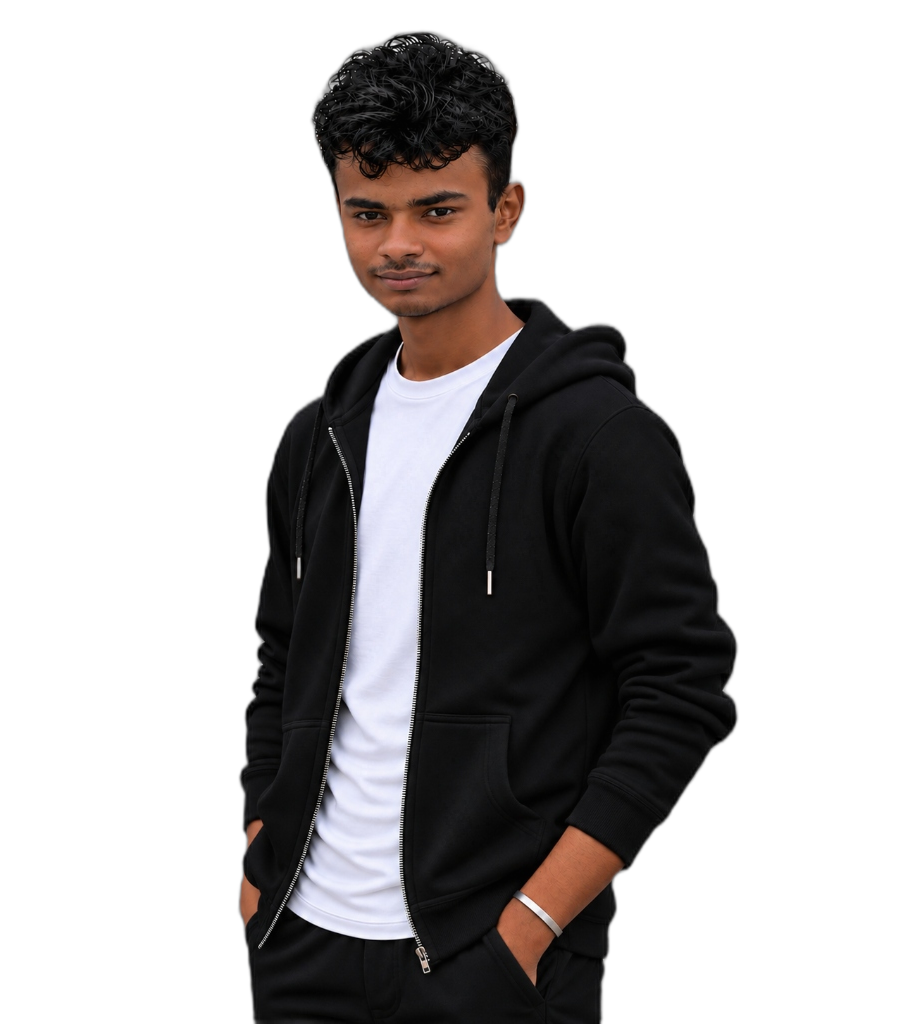
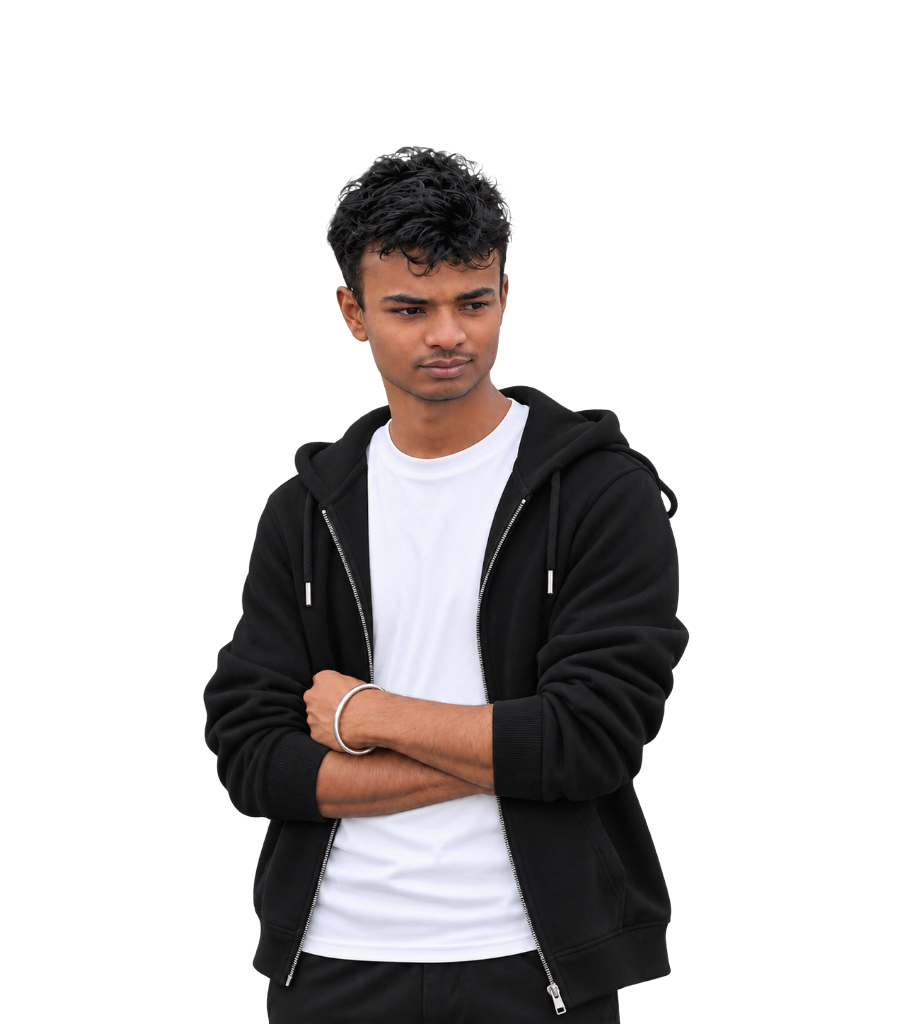
Update About section portrait with arms-crossed pose and reduce backdrop halo size

Changed region(s): [[0.2171, 0.0312, 0.8372, 1.0], [0.5891, 0.6875, 0.6202, 0.7188], [0.4031, 0.9688, 0.4341, 1.0]]

diff --git a/index.html b/index.html
@@ -541,28 +541,28 @@
             <div id="about-center-col" class="lg:col-span-4 flex items-end justify-center self-end pb-0 relative min-h-[500px] lg:min-h-[580px] xl:min-h-[660px] h-full select-none z-10">
               <div id="about-center-stage" class="relative w-full max-w-[440px] lg:max-w-[520px] xl:max-w-[580px] 2xl:max-w-[640px] mx-auto flex items-end justify-center pb-0">
                 
-                <!-- Neon Lime Green Circle & Radiating Sketch Lines (Enlarged Backdrop Elements, Strictly Behind All Text & Content) -->
-                <div id="about-portrait-backdrop" class="absolute inset-0 flex items-center justify-center pointer-events-none -z-1 will-change-transform scale-[2.3] lg:scale-[2.65] xl:scale-[2.9] -translate-x-[2%] -translate-y-[2%]">
-                  <svg viewBox="0 0 600 600" fill="none" class="w-[160%] h-[160%] max-w-none overflow-visible">
-                    <circle cx="300" cy="300" r="255" stroke="#161c14" stroke-width="4.5" fill="none" />
-                    <circle cx="300" cy="300" r="255" stroke="#81FF28" stroke-width="2.2" stroke-dasharray="14 10" stroke-linecap="round" fill="none" opacity="0.6" />
-                    <circle cx="300" cy="300" r="195" fill="#81FF28" />
+                <!-- Neon Lime Green Circle & Radiating Sketch Lines (Reduced to Smaller, Refined Halo Size Behind Portrait) -->
+                <div id="about-portrait-backdrop" class="absolute inset-0 flex items-center justify-center pointer-events-none -z-1 will-change-transform -translate-x-[2%] -translate-y-[2%]">
+                  <svg viewBox="0 0 600 600" fill="none" class="w-[125%] h-[125%] max-w-none overflow-visible">
+                    <circle cx="300" cy="300" r="190" stroke="#161c14" stroke-width="4" fill="none" />
+                    <circle cx="300" cy="300" r="190" stroke="#81FF28" stroke-width="2" stroke-dasharray="14 10" stroke-linecap="round" fill="none" opacity="0.5" />
+                    <circle cx="300" cy="300" r="142" fill="#81FF28" />
 
-                    <!-- Radiating Doodle Lines (Extended Outward for Maximum Halo Visibility While Staying Behind Text) -->
-                    <path d="M 115 225 L 15 185" stroke="#81FF28" stroke-width="4" stroke-linecap="round" />
-                    <path d="M 90 280 L 0 260" stroke="#81FF28" stroke-width="4.5" stroke-linecap="round" />
-                    <path d="M 100 340 L 10 360" stroke="#81FF28" stroke-width="4" stroke-linecap="round" />
-                    <path d="M 125 400 L 40 450" stroke="#81FF28" stroke-width="4" stroke-linecap="round" />
-                    <path d="M 155 170 L 75 110" stroke="#81FF28" stroke-width="4" stroke-linecap="round" />
+                    <!-- Radiating Doodle Lines (Scaled to Smaller Proportions) -->
+                    <path d="M 148 240 L 75 210" stroke="#81FF28" stroke-width="3.5" stroke-linecap="round" />
+                    <path d="M 132 280 L 52 265" stroke="#81FF28" stroke-width="4" stroke-linecap="round" />
+                    <path d="M 138 325 L 68 340" stroke="#81FF28" stroke-width="3.5" stroke-linecap="round" />
+                    <path d="M 160 365 L 98 405" stroke="#81FF28" stroke-width="3.5" stroke-linecap="round" />
+                    <path d="M 185 195 L 125 150" stroke="#81FF28" stroke-width="3.5" stroke-linecap="round" />
 
-                    <path d="M 485 225 L 585 185" stroke="#81FF28" stroke-width="4" stroke-linecap="round" />
-                    <path d="M 510 280 L 600 260" stroke="#81FF28" stroke-width="4.5" stroke-linecap="round" />
-                    <path d="M 500 340 L 590 360" stroke="#81FF28" stroke-width="4" stroke-linecap="round" />
-                    <path d="M 475 400 L 560 450" stroke="#81FF28" stroke-width="4" stroke-linecap="round" />
-                    <path d="M 445 170 L 525 110" stroke="#81FF28" stroke-width="4" stroke-linecap="round" />
+                    <path d="M 452 240 L 525 210" stroke="#81FF28" stroke-width="3.5" stroke-linecap="round" />
+                    <path d="M 468 280 L 548 265" stroke="#81FF28" stroke-width="4" stroke-linecap="round" />
+                    <path d="M 462 325 L 532 340" stroke="#81FF28" stroke-width="3.5" stroke-linecap="round" />
+                    <path d="M 440 365 L 502 405" stroke="#81FF28" stroke-width="3.5" stroke-linecap="round" />
+                    <path d="M 415 195 L 475 150" stroke="#81FF28" stroke-width="3.5" stroke-linecap="round" />
 
-                    <path d="M 440 100 C 505 80, 560 125, 530 180" stroke="#81FF28" stroke-width="2.5" stroke-linecap="round" stroke-dasharray="7 5" fill="none" opacity="0.85" />
-                    <path d="M 460 80 C 530 60, 580 110, 550 175" stroke="white" stroke-width="2" stroke-linecap="round" fill="none" opacity="0.75" />
+                    <path d="M 410 130 C 450 115, 485 150, 470 190" stroke="#81FF28" stroke-width="2" stroke-linecap="round" stroke-dasharray="6 4" fill="none" opacity="0.75" />
+                    <path d="M 425 110 C 475 95, 510 140, 490 185" stroke="white" stroke-width="1.8" stroke-linecap="round" fill="none" opacity="0.6" />
                   </svg>
                 </div>
 
